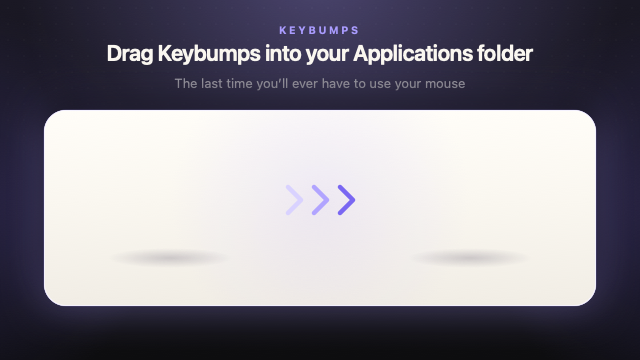
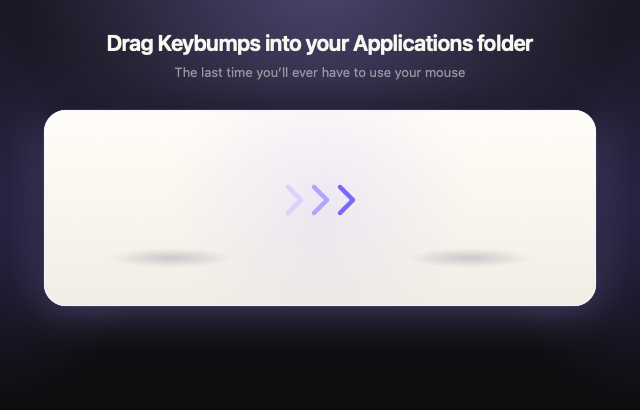
fix: #438 the disk image window fits the tray with Finder's tab and path bars on, without the KEYBUMPS line

diff --git a/apps/macos/scripts/dmg/render-background.swift b/apps/macos/scripts/dmg/render-background.swift
@@ -14,10 +14,10 @@ guard arguments.count == 2 else {
 let output = URL(fileURLWithPath: arguments[1])
 
 // The window's content size in points, and the icon centers dmg-settings.py uses. Finder's tab
-// bar and path bar are global settings that a disk image can't turn off, and they take about 58pt
-// from the bottom, so everything that matters sits in the top 306pt.
+// bar and path bar are global settings that a disk image can't turn off, and on macOS 26 they take
+// about 70pt from the bottom, so everything that matters sits in the top 330pt and the rest is sky.
 let width: CGFloat = 640
-let height: CGFloat = 360
+let height: CGFloat = 410
 let iconY: CGFloat = 200
 let appX: CGFloat = 170
 let applicationsX: CGFloat = 470
@@ -77,17 +77,13 @@ func render(scale: CGFloat) throws {
     // Copy.
     let center = NSMutableParagraphStyle()
     center.alignment = .center
-    NSAttributedString(string: "KEYBUMPS", attributes: [
-        .font: NSFont.systemFont(ofSize: 10.5, weight: .bold), .foregroundColor: lavender,
-        .kern: 2.6, .paragraphStyle: center,
-    ]).draw(in: CGRect(x: 0, y: 24, width: width, height: 14))
     NSAttributedString(string: "Drag Keybumps into your Applications folder", attributes: [
         .font: NSFont.systemFont(ofSize: 22, weight: .semibold), .foregroundColor: powder,
         .kern: -0.4, .paragraphStyle: center,
-    ]).draw(in: CGRect(x: 0, y: 40, width: width, height: 32))
+    ]).draw(in: CGRect(x: 0, y: 30, width: width, height: 30))
     NSAttributedString(string: "The last time you’ll ever have to use your mouse", attributes: [
         .font: NSFont.systemFont(ofSize: 13), .foregroundColor: muted, .paragraphStyle: center,
-    ]).draw(in: CGRect(x: 0, y: 75, width: width, height: 18))
+    ]).draw(in: CGRect(x: 0, y: 64, width: width, height: 18))
 
     // The tray: a lit powder slab with a lavender halo and a deep drop shadow.
     let tray = CGRect(x: 44, y: 110, width: width - 88, height: 196)

diff --git a/apps/macos/scripts/dmg/dmg-settings.py b/apps/macos/scripts/dmg/dmg-settings.py
@@ -20,9 +20,9 @@ icon = os.path.join(app, "Contents", "Resources", "Keybumps.icns")
 
 # background.png has a background@2x.png beside it, which dmgbuild combines into a Retina image.
 background = defines["background"]  # noqa: F821
-# The frame includes the title bar (28pt), so the content area matches the 640x360 background.
-# A Finder with its tab bar or path bar on shows less, which the art leaves room for.
-window_rect = ((200, 120), (640, 388))
+# The frame includes the title bar (28pt), so the content area matches the 640x410 background.
+# A Finder with its tab bar or path bar on shows about 70pt less, which the art leaves room for.
+window_rect = ((200, 120), (640, 438))
 default_view = "icon-view"
 show_status_bar = False
 show_tab_view = False
